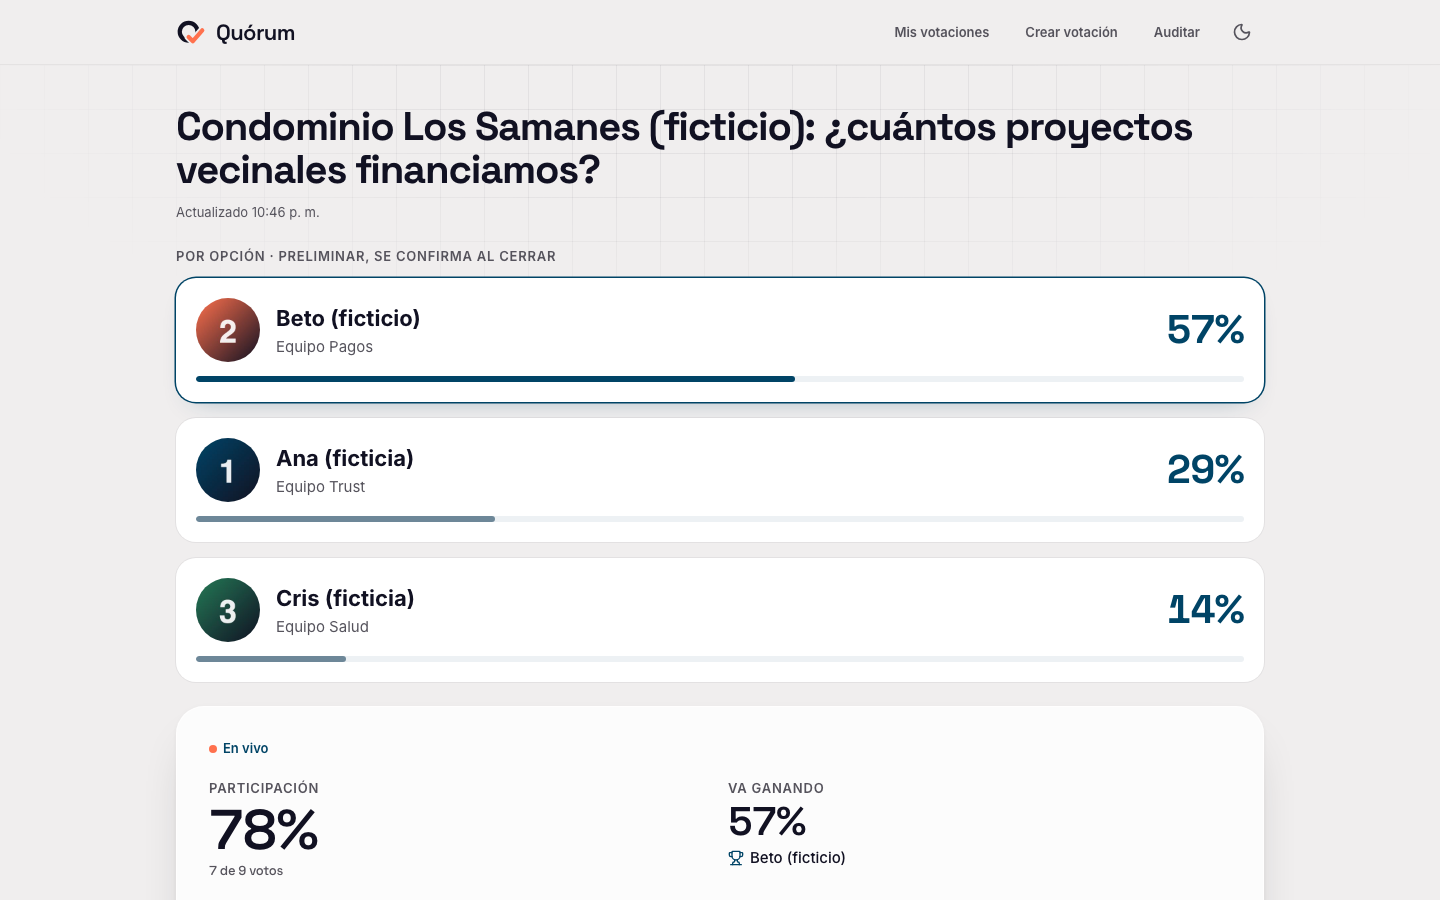
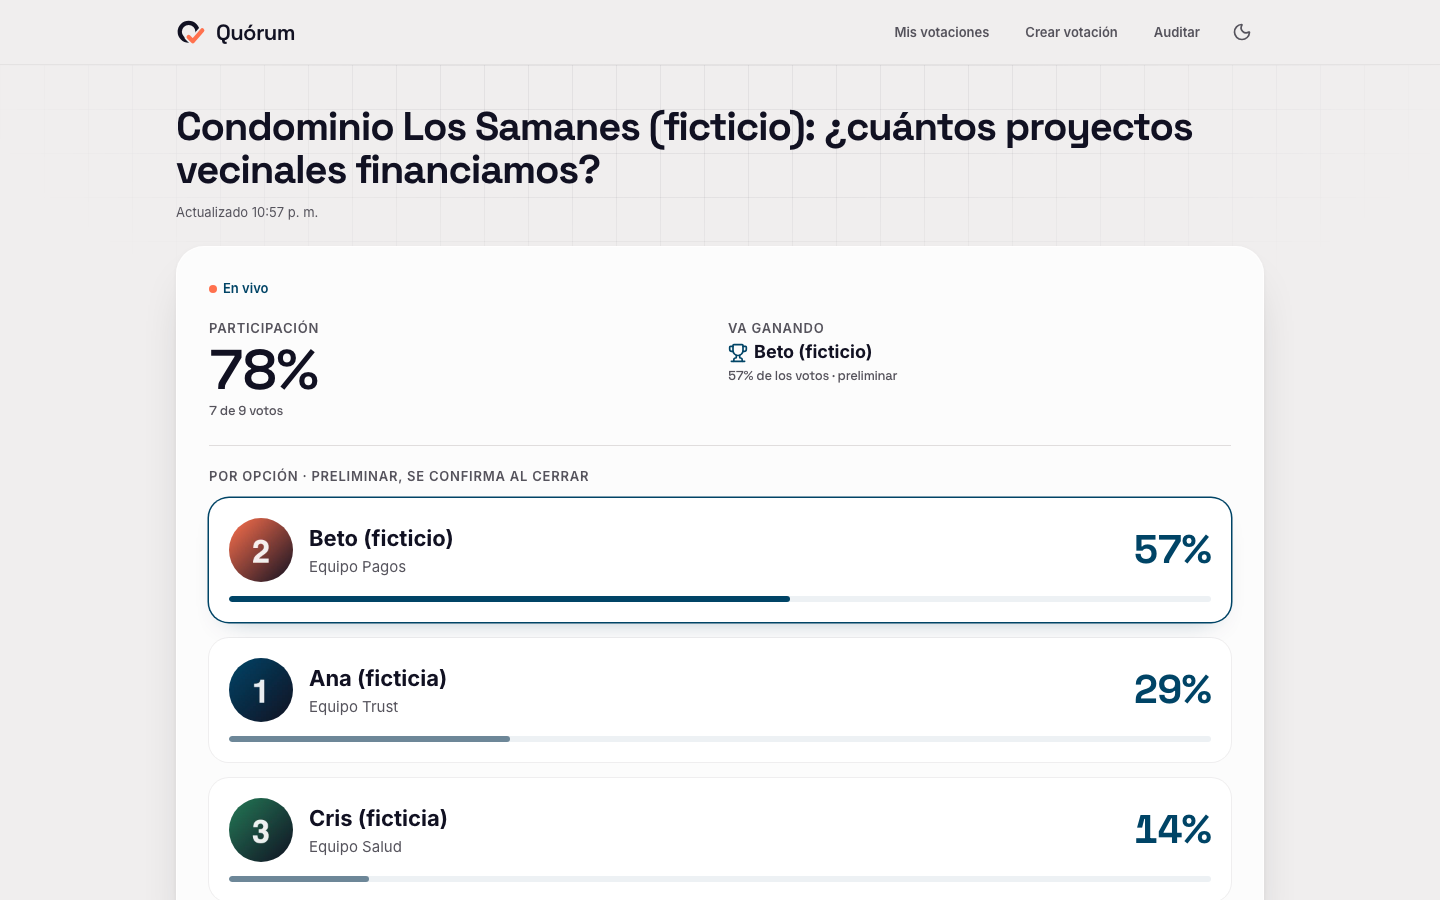
En vivo: una sola carta (En vivo, participación y va ganando arriba; tarjetas por opción dentro, moviéndose juntas); nombres que no se cortan
Claude-Session: https://claude.ai/code/session_0126UDXVedLgwsVx5cb5fxdw

diff --git a/apps/web/src/components/results/ResultsCard.tsx b/apps/web/src/components/results/ResultsCard.tsx
@@ -24,6 +24,8 @@ type Props = {
   closesAt?: string;
   /** Oculta la lista por opción (barras) cuando otra pieza de la página ya la muestra, p. ej. las tarjetas con foto de /live. La tabla accesible se conserva. */
   compact?: boolean;
+  /** Contenido que va DENTRO de la misma carta, debajo de los totales (p. ej. las tarjetas por opción con foto): así todo se mueve junto. */
+  children?: React.ReactNode;
 };
 
 function useCountdown(closesAt: string | undefined) {
@@ -40,7 +42,7 @@ function useCountdown(closesAt: string | undefined) {
   return ms > 0 ? formatCountdown(ms) : null;
 }
 
-export function ResultsCard({ options, totalVotes, eligible, turnout, live, statusLabel, title, className, ariaLabel, closesAt, compact = false }: Props) {
+export function ResultsCard({ options, totalVotes, eligible, turnout, live, statusLabel, title, className, ariaLabel, closesAt, compact = false, children }: Props) {
   const left = useCountdown(live ? closesAt : undefined);
   const hidden = options.some((o) => o.count === null);
   const ranked = options
@@ -79,15 +81,35 @@ export function ResultsCard({ options, totalVotes, eligible, turnout, live, stat
           <div className="min-w-0">
             <dt className="q-eyebrow">{live ? "Va ganando" : "Más votada"}</dt>
             <dd className="mt-1 flex flex-col">
-              <span className="q-num text-[2rem] font-semibold leading-none md:text-[2.5rem]">{formatPercent(share(leader.votes))}</span>
-              <span className="mt-1 inline-flex min-w-0 items-center gap-1.5 text-body font-medium">
-                <Trophy aria-hidden="true" className="size-4 shrink-0 text-primary-ink" />
-                <span className="truncate">{leader.label}</span>
-              </span>
+              {live ? (
+                <>
+                  {/* En vivo: el nombre manda y el porcentaje va pequeño, para que no se lea como un resultado final. */}
+                  <span className="inline-flex min-w-0 items-center gap-1.5 text-heading font-bold leading-tight">
+                    <Trophy aria-hidden="true" className="size-5 shrink-0 text-primary-ink" />
+                    <span className="line-clamp-2 break-words">{leader.label}</span>
+                  </span>
+                  <span className="q-num mt-1 text-small text-muted-foreground">{formatPercent(share(leader.votes))} de los votos · preliminar</span>
+                </>
+              ) : (
+                <>
+                  <span className="q-num text-[2rem] font-semibold leading-none md:text-[2.5rem]">{formatPercent(share(leader.votes))}</span>
+                  <span className="mt-1 inline-flex min-w-0 items-center gap-1.5 text-body font-medium">
+                    <Trophy aria-hidden="true" className="size-4 shrink-0 text-primary-ink" />
+                    <span className="truncate">{leader.label}</span>
+                  </span>
+                </>
+              )}
             </dd>
           </div>
         ) : null}
       </dl>
+
+      {children ? (
+        <div className="mt-6 flex flex-col gap-3 border-t border-border pt-5" data-testid="results-children">
+          <p className="q-eyebrow">Por opción · {live ? "preliminar, se confirma al cerrar" : "se confirma con el verificador"}</p>
+          {children}
+        </div>
+      ) : null}
 
       {hidden ? (
         <div className="mt-6 rounded-md bg-muted p-4">
@@ -99,7 +121,7 @@ export function ResultsCard({ options, totalVotes, eligible, turnout, live, stat
         </div>
       ) : (
         <>
-          <div aria-hidden="true" className="mt-6 flex h-3 gap-0.5 overflow-hidden rounded-full bg-muted">
+          <div aria-hidden="true" className="mt-6 flex h-3 gap-0.5 overflow-hidden rounded-full bg-muted" hidden={Boolean(children)}>
             {ranked
               .filter((o) => o.votes > 0)
               .map((o, i) => (

diff --git a/apps/web/src/components/live/LiveDashboard.tsx b/apps/web/src/components/live/LiveDashboard.tsx
@@ -128,17 +128,11 @@ export function LiveDashboard({ electionId }: { electionId: string }) {
         {!data && !error ? <LoadingState label="Cargando resultados…" lines={4} /> : null}
 
         {data && closed ? <WinnerScreen electionId={electionId} status={data.status} options={withPhotos} totalVotes={data.totalVotes} audit={audit} /> : null}
-        {data && !closed && breakdown && phase !== "registration" ? (
-          <section aria-labelledby="ranked-title" className="flex flex-col gap-3">
-            <h2 id="ranked-title" className="q-eyebrow">
-              Por opción · {data.status === "open" ? "preliminar, se confirma al cerrar" : "se confirma con el verificador"}
-            </h2>
-            <RankedCards ariaHidden options={withPhotos.map((o) => ({ ...o, count: o.count ?? 0 }))} totalVotes={data.totalVotes} size="lg" />
-          </section>
-        ) : null}
-
         {data && phase !== "registration" ? (
-          <ResultsCard options={data.options} totalVotes={data.totalVotes} eligible={data.eligible} turnout={data.turnout} live={data.status === "open"} statusLabel={phaseLabel[data.status]} closesAt={data.closesAt} compact={closed || breakdown} />
+          <ResultsCard options={data.options} totalVotes={data.totalVotes} eligible={data.eligible} turnout={data.turnout} live={data.status === "open"} statusLabel={phaseLabel[data.status]} closesAt={data.closesAt} compact={closed || breakdown}>
+            {/* Una sola carta: «En vivo», participación y «va ganando» arriba; debajo, en la misma carta, las tarjetas con foto que se reordenan. */}
+            {!closed && breakdown ? <RankedCards ariaHidden options={withPhotos.map((o) => ({ ...o, count: o.count ?? 0 }))} totalVotes={data.totalVotes} size="lg" /> : null}
+          </ResultsCard>
         ) : null}
 
         {data && extraTiles.length > 0 ? (

diff --git a/apps/web/src/components/results/RankedCards.tsx b/apps/web/src/components/results/RankedCards.tsx
@@ -149,7 +149,7 @@ export function RankedCards({ options, totalVotes, size = "md", tone = "light", 
             <div className={cn("flex items-center", lg ? "gap-3.5 md:gap-4" : "gap-3")}>
               <OptionAvatar label={o.label} image={o.image} tone={tone} className={lg ? "size-14 text-[1.5rem] md:size-16 md:text-[1.75rem]" : "size-11 text-[1.25rem]"} />
               <div className="min-w-0 flex-1">
-                <p className={cn("truncate font-bold leading-tight", lg ? "text-[1.125rem] md:text-[1.375rem]" : "text-body")}>{o.label}</p>
+                <p className={cn("line-clamp-2 break-words font-bold leading-tight", lg ? "text-[1.125rem] md:text-[1.375rem]" : "text-body")}>{o.label}</p>
                 {o.subtitle ? <p className={cn("truncate", lg ? "text-small md:text-body" : "text-small", dark ? "text-[#b9bac4]" : "text-muted-foreground")}>{o.subtitle}</p> : null}
                 <span className="sr-only">
                   {" "}
